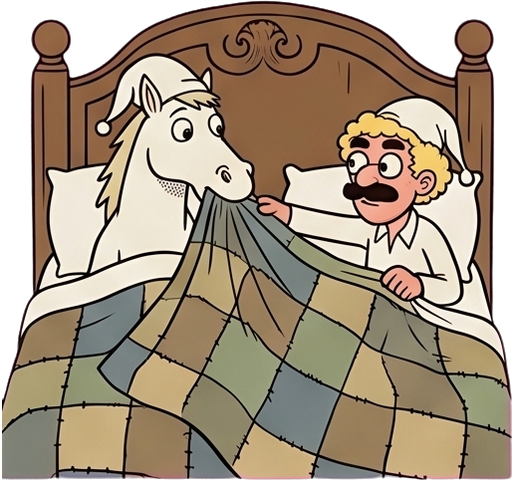
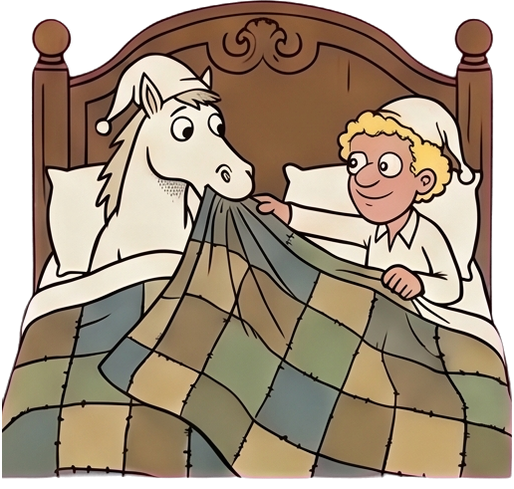
Bed: the new sheet, Harpo as himself, clean-shaven, no Groucho moustache or eyebrows

diff --git a/TODO.md b/TODO.md
@@ -15,7 +15,7 @@
 - DONE: Lemonade stand again: Harpo isn't really in the lemonade; he should stand in the tub.
 - DONE: Honks: the user picked a child's plastic bulb horn (CC0, OpenGameArt) played at 0.55 speed.
 - DONE: War: the puff of smoke on each costume change looks wrong; find a better change.
-- DONE: Harpo in bed with the horse ("GOOD NIGHT", after the ride).
+- DONE: Harpo in bed with the horse ("GOOD NIGHT", after the ride); redrawn clean-shaven, as himself (the first sheet had his Groucho disguise).
 - Later: re-release the Mirror Scene (v0.1.1) with the new room.
 
 Done and liked: the room and mirror are better; the opener is good.
